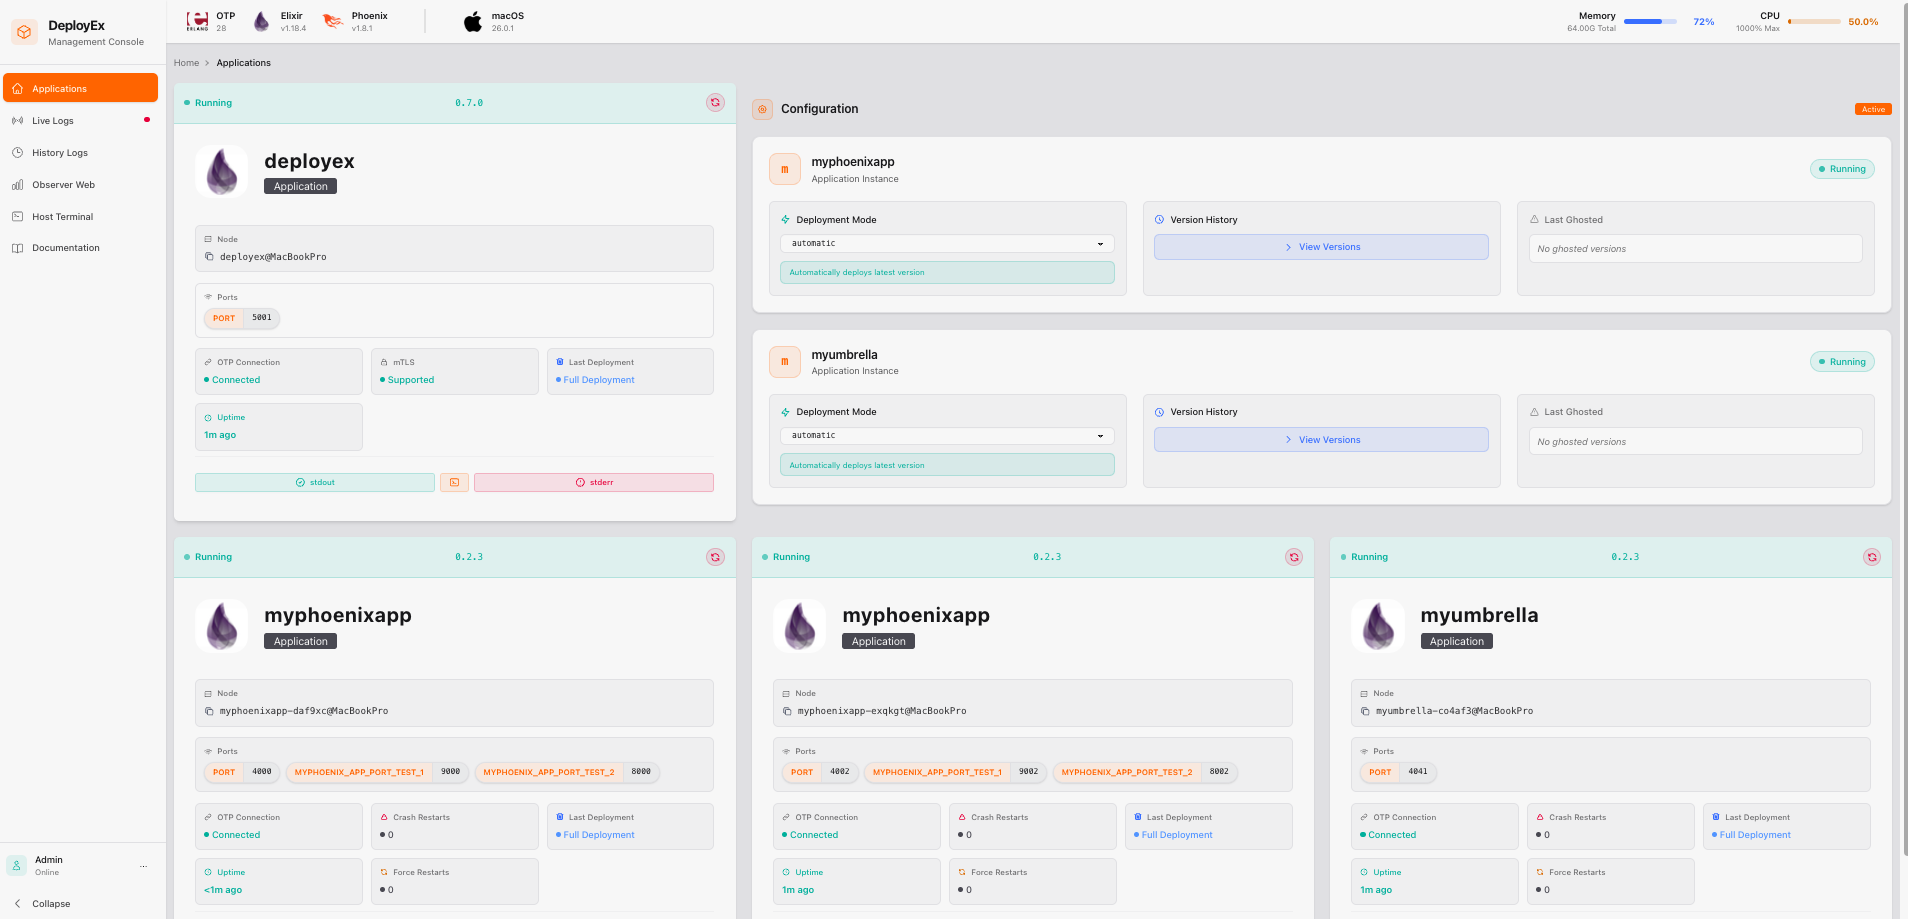
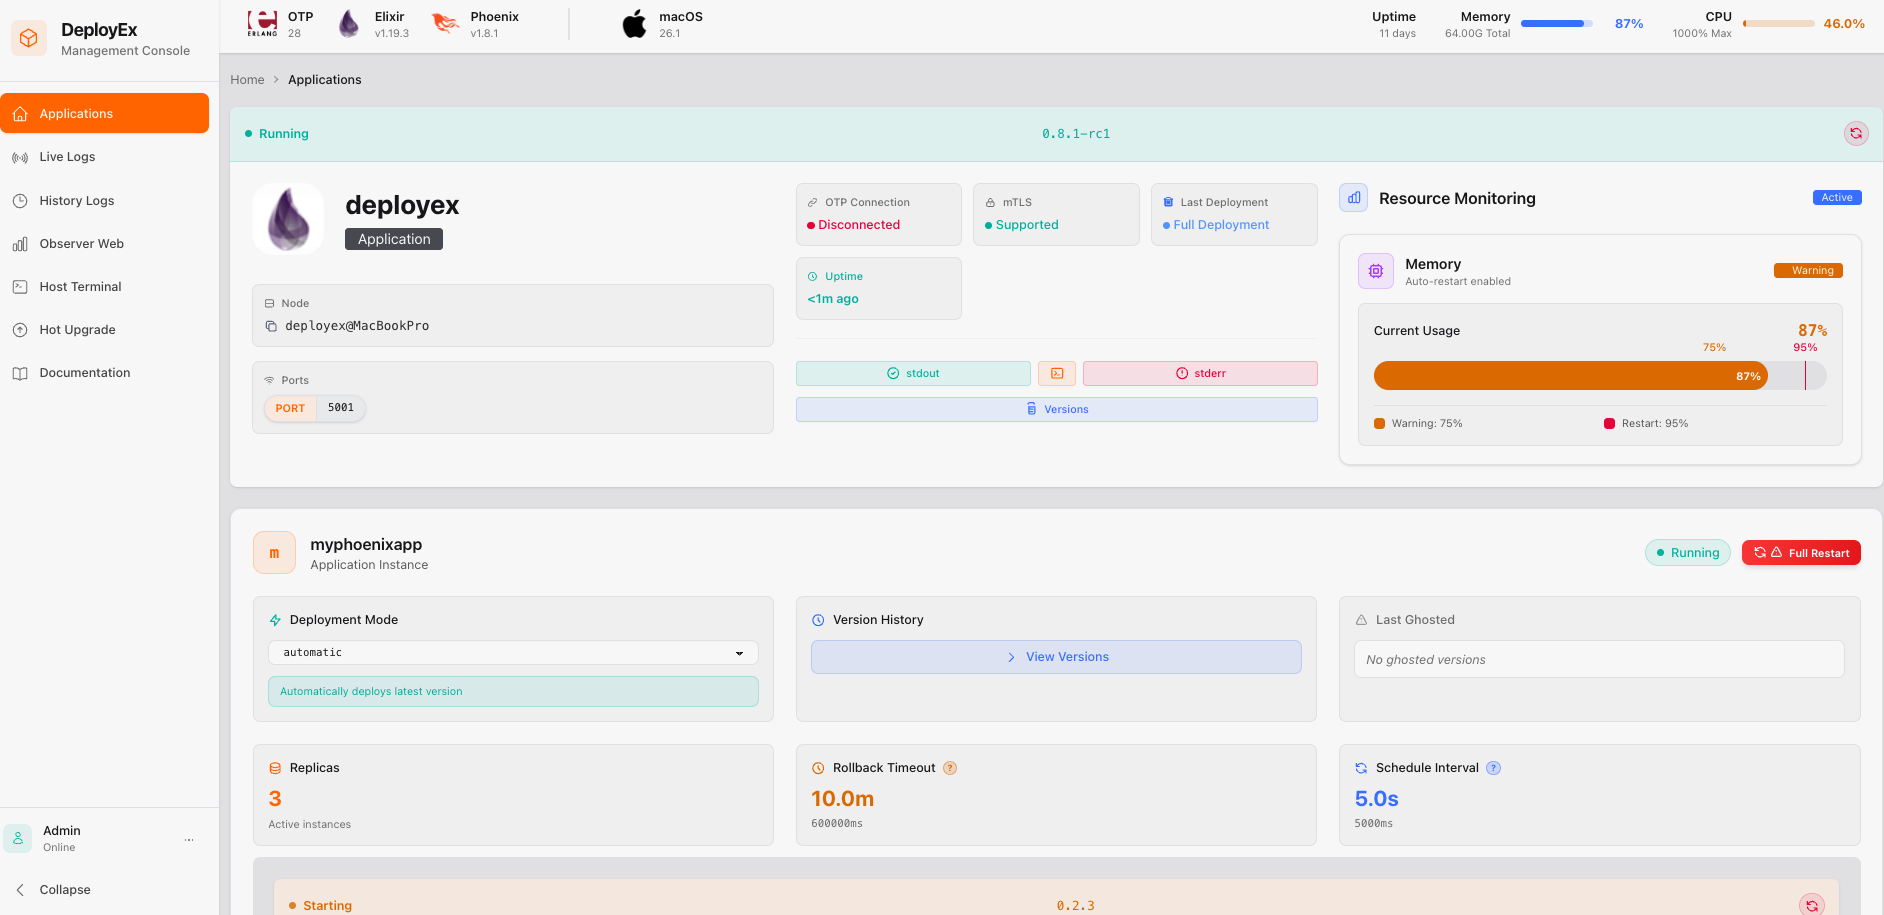
Updating README and changelog

diff --git a/README.md b/README.md
@@ -97,14 +97,15 @@ You can kickstart the setup with the following commands, the default number of r
 ```bash
 mix deps.get
 iex --sname deployex --cookie cookie -S mix phx.server
-Erlang/OTP 27 [erts-15.2.7] [source] [64-bit] [smp:10:10] [ds:10:10:10] [async-threads:1] [jit]
+Erlang/OTP 28 [erts-16.1.1] [source] [64-bit] [smp:10:10] [ds:10:10:10] [async-threads:1] [jit]
 
-[info] Initializing Host Memory Server
+[info] Initializing HotUpgrade server                                                                                                            
 [info] Initializing Engine Server for myphoenixapp
+[info] Initializing ConfigWatcher for YAML configuration
 [info] Initializing Watchdog Server
-[info] Running DeployexWeb.Endpoint with Bandit 1.6.11 at 127.0.0.1:5001 (http)
+[info] Running DeployexWeb.Endpoint with Bandit 1.8.0 at 127.0.0.1:5001 (http)
 [info] Access DeployexWeb.Endpoint at http://localhost:5001
-Interactive Elixir (1.17.0) - press Ctrl+C to exit (type h() ENTER for help)
+Interactive Elixir (1.19.3) - press Ctrl+C to exit (type h() ENTER for help)
 [watch] build finished, watching for changes...
 
 Rebuilding...
@@ -222,7 +223,7 @@ Your application will likely require database commands, such as migrations. Depl
 
 ### 🔐 Secrets Requirements
 
-DeployEx uses Secret Manager (AWS or GCP) to fetch its secrets via the config provider. The following environment variable configuration is expected for Secret Manager:
+DeployEx retrieves its secrets from a Secret Manager (AWS, GCP, or local) through the config provider. The configuration requires specifying the adapter and the secret path. For example:
 
 ```bash
 DEPLOYEX_SECRETS_ADAPTER=gcp

diff --git a/CHANGELOG.md b/CHANGELOG.md
@@ -20,6 +20,7 @@
 ### Enhancements
  * [`ISSUE-188`](https://github.com/thiagoesteves/deployex/issues/188) Add DeployEx Secrets via environment vars
  * [`PULL-189`](https://github.com/thiagoesteves/deployex/pull/189) Adding hot upgrade functionality for DeployEx itself via CLI
+ * [`PULL-193`](https://github.com/thiagoesteves/deployex/pull/193) Adding UI/UX for hotupgrading deployex itself
 
 ## 0.8.0 🚀 (2025-11-20)
 
